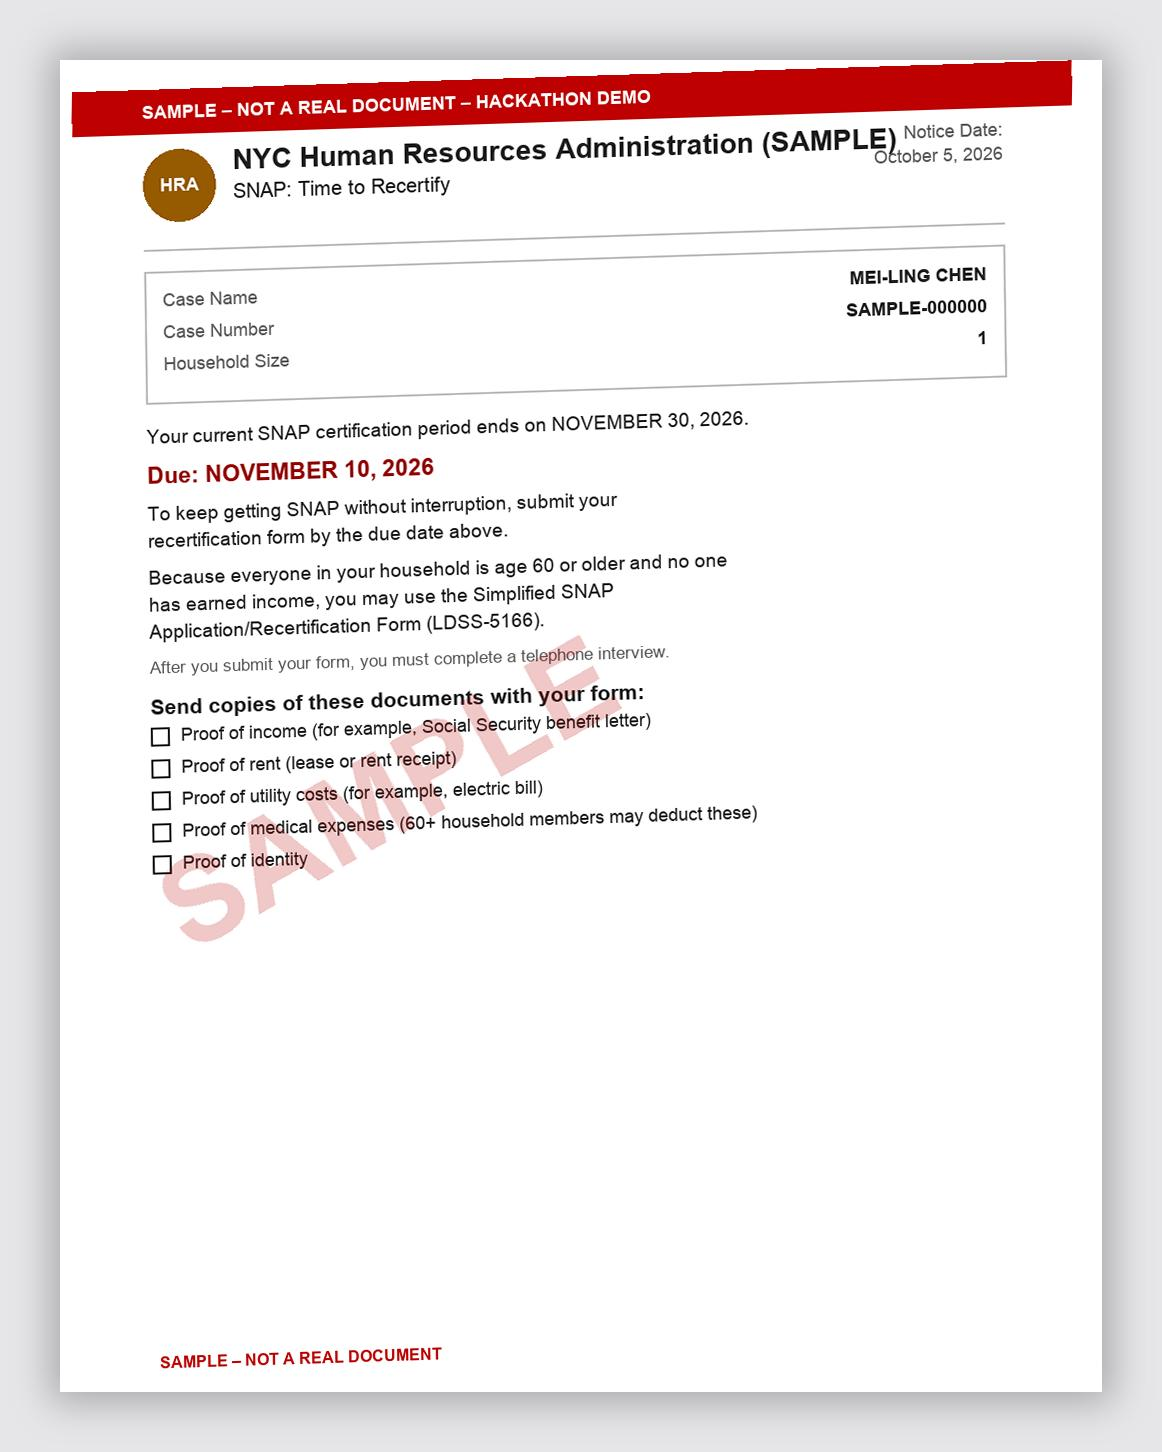
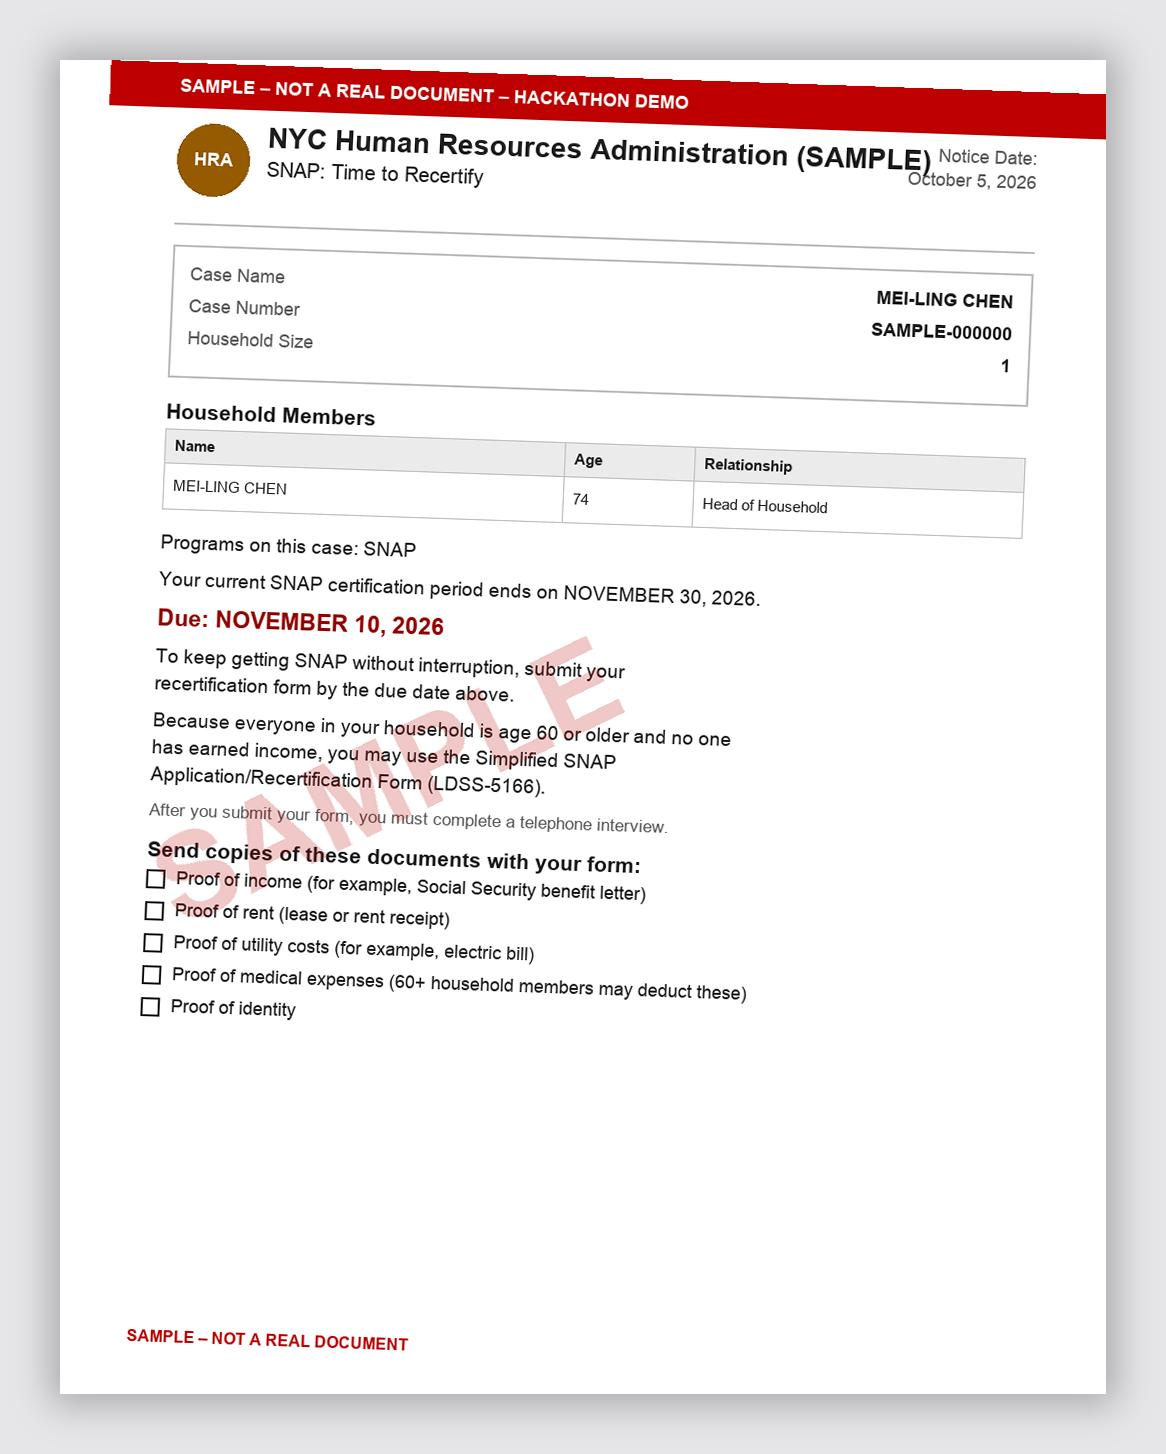
Zero questions after SSA+bank+HRA: document-based inference for married/medicaid/earned-income
User-directed redesign: uploading the demo documents should produce
results with ZERO questions, using only information the real versions
of these documents would plausibly contain.

Fixture content (real-document-plausible additions):
- SSA letter: added "Information About Supplemental Security Income
  Payments: You are not currently receiving SSI" -- SSA benefit
  verification letters do report SSI status alongside retirement
  benefits.
- HRA SNAP notice: added a "Household Members" box listing exactly one
  person (Mei-ling, Head of Household) and a "Programs on this case:
  SNAP" line -- both are standard fields on real NYC HRA
  determination/recertification notices.

New inference rules (app/docs/profile_merge.py), each with provenance
recorded to the source letter:
- Exactly one named household member -> answers "married and living
  with spouse" (= no) without the letter ever stating a marital status
  directly -- you can't live with a spouse in a one-person household.
- "Programs on this case" not listing Medicaid -> answers on_medicaid
  (= no).
- The notice's existing "no one has earned income" sentence (the
  stated eligibility condition for the simplified senior form, already
  in the fixture since Step 1) -> answers earned_income_monthly (= 0)
  without needing a pay stub.
- SSA letter's new SSI section -> answers on_ssi directly.

app/benefits/service.py: extracted a named needed_questions(results)
[…]

Changed region(s): [[0.062, 0.031, 0.9604, 0.7128], [0.0929, 0.8988, 0.3718, 0.9607], [0.5577, 0.6818, 0.6506, 0.7128]]

diff --git a/app/docs/profile_merge.py b/app/docs/profile_merge.py
@@ -58,6 +58,13 @@ def merge_fields_into_profile(
             profile.set_provenance("age", letter_id)
             updated.append("age")
 
+        # The letter states SSI status outright when it has anything to
+        # report about it -- no need to ask.
+        if fields.get("receives_ssi") is not None:
+            profile.on_ssi = fields["receives_ssi"]
+            profile.set_provenance("on_ssi", letter_id)
+            updated.append("on_ssi")
+
     elif letter_type == LetterType.HRA_RENEWAL_NOTICE:
         if fields.get("program") == "SNAP":
             profile.on_snap = True
@@ -67,6 +74,32 @@ def merge_fields_into_profile(
             profile.household_size = fields["household_size"]
             profile.set_provenance("household_size", letter_id)
             updated.append("household_size")
+
+        # Exactly one named household member means she lives alone -- that
+        # answers "married and living with spouse" (= no) without the
+        # notice ever stating a marital status, and without asking.
+        members = fields.get("household_members")
+        if members and len(members) == 1:
+            profile.married = False
+            profile.living_with_spouse = False
+            profile.set_provenance("married", letter_id)
+            updated.append("married")
+
+        # The notice lists which programs this case already covers -- if
+        # Medicaid isn't one of them, that answers "on Medicaid" (= no).
+        programs = fields.get("programs_on_case")
+        if programs is not None:
+            profile.on_medicaid = "medicaid" in {p.lower() for p in programs}
+            profile.set_provenance("on_medicaid", letter_id)
+            updated.append("on_medicaid")
+
+        # The simplified-form eligibility condition some notices state
+        # outright ("no one has earned income") answers
+        # "earned_income_monthly" (= 0) without needing a pay stub.
+        if fields.get("household_has_earned_income") is False and profile.earned_income_monthly is None:
+            profile.earned_income_monthly = 0.0
+            profile.set_provenance("earned_income_monthly", letter_id)
+            updated.append("earned_income_monthly")
 
     elif letter_type == LetterType.BANK_STATEMENT:
         profile.savings = fields["ending_balance"]

diff --git a/app/docs/oci_client.py b/app/docs/oci_client.py
@@ -52,7 +52,9 @@ _FIXTURE_TEXT_BY_STEM = {
         "Medicare Part B premium deduction: $202.90.\n"
         "Your net payment is $1,497.00.\n"
         "Date of birth: 1952-03-14.\n"
-        "This change is effective 2025-12-01."
+        "This change is effective 2025-12-01.\n"
+        "Information About Supplemental Security Income Payments: "
+        "You are not currently receiving Supplemental Security Income (SSI)."
     ),
     "02_bank_statement": (
         "Sample Community Bank Monthly Statement\n"
@@ -68,9 +70,13 @@ _FIXTURE_TEXT_BY_STEM = {
         "SNAP Recertification Notice\n"
         "MEI-LING CHEN\n"
         "Household size: 1\n"
+        "Household Members: MEI-LING CHEN, age 74, Head of Household\n"
+        "Programs on this case: SNAP\n"
         "Your SNAP case must be recertified by 2026-11-10.\n"
         "Certification ends 2026-11-30.\n"
-        "Simplified form LDSS-5166 available.\n"
+        "Because everyone in your household is age 60 or older and no one "
+        "has earned income, you may use the Simplified SNAP Application/"
+        "Recertification Form (LDSS-5166).\n"
         "Please submit: proof of income, proof of rent, proof of utilities, "
         "proof of medical expenses, proof of identity."
     ),
@@ -103,6 +109,7 @@ _FIXTURE_EXTRACT_BY_STEM = {
         "recipient_name": "MEI-LING CHEN",
         "recipient_address": "123 SAMPLE AVE APT 4B, FLUSHING NY 11354",
         "date_of_birth": "1952-03-14",
+        "receives_ssi": False,
     },
     "02_bank_statement": {
         "ending_balance": 40000.00,
@@ -117,6 +124,9 @@ _FIXTURE_EXTRACT_BY_STEM = {
         "notice_date": "2026-10-05",
         "certification_end_date": "2026-11-30",
         "household_size": 1,
+        "household_members": [{"name": "MEI-LING CHEN", "age": 74, "relationship": "head_of_household"}],
+        "programs_on_case": ["SNAP"],
+        "household_has_earned_income": False,
         "simplified_form_eligible": True,
         "simplified_form_id": "LDSS-5166",
         "interview_required": "telephone",

diff --git a/app/docs/schemas.py b/app/docs/schemas.py
@@ -38,6 +38,8 @@ class SsaBenefitLetterFields(BaseModel):
     # When present, lets the app answer the "age" question itself instead
     # of asking -- see app.docs.profile_merge.
     date_of_birth: date | None = None
+    # When present, lets the app answer the "on_ssi" fact without asking.
+    receives_ssi: bool | None = None
 
 
 class RecurringDeposit(BaseModel):
@@ -57,6 +59,12 @@ class BankStatementFields(BaseModel):
     medical_expenses: list[RecurringDeposit] = Field(default_factory=list)
 
 
+class HouseholdMember(BaseModel):
+    name: str
+    age: int | None = None
+    relationship: str = "head_of_household"
+
+
 class HraRenewalNoticeFields(BaseModel):
     program: str
     deadline: date
@@ -66,6 +74,17 @@ class HraRenewalNoticeFields(BaseModel):
     # When present, lets the app answer the "household_size" question
     # itself instead of asking -- see app.docs.profile_merge.
     household_size: int | None = None
+    # A named household-members list, when the notice lists one: if it has
+    # exactly one person, that answers "married and living with spouse"
+    # (= no) without ever asking or stating a marital status directly.
+    household_members: list[HouseholdMember] | None = None
+    # Which programs this case is already open for -- if listed and
+    # Medicaid isn't among them, that answers "on Medicaid" (= no).
+    programs_on_case: list[str] | None = None
+    # Some notices state this outright (it's the eligibility condition for
+    # the simplified senior/disabled form) -- when present, answers
+    # "earned_income_monthly" (= 0) without asking or needing a pay stub.
+    household_has_earned_income: bool | None = None
     simplified_form_eligible: bool = False
     simplified_form_id: str | None = None
     interview_required: str | None = None

diff --git a/scripts/make_fixtures.py b/scripts/make_fixtures.py
@@ -289,6 +289,8 @@ def make_fixture_1() -> None:
             "beginning March 2017.",
         ]
     )
+    l.section_header("Information About Supplemental Security Income Payments")
+    l.body(["You are not currently receiving Supplemental Security Income (SSI)."])
     l.body(["Social Security Number: XXX-XX-0000 (SAMPLE)"], font_size=17, color=MUTED)
     l.finish(name)
 
@@ -304,6 +306,7 @@ def make_fixture_1() -> None:
             "date_of_birth": "1952-03-14",
             "has_medicare_part_a": True,
             "has_medicare_part_b": True,
+            "receives_ssi": False,
             "recipient_name": "MEI-LING CHEN",
             "recipient_address": "123 SAMPLE AVE APT 4B, FLUSHING NY 11354",
         },
@@ -389,6 +392,13 @@ def make_fixture_3() -> None:
             ("Household Size", "1"),
         ]
     )
+    l.section_header("Household Members")
+    l.table(
+        ["Name", "Age", "Relationship"],
+        [400, 130, 330],
+        [["MEI-LING CHEN", "74", "Head of Household"]],
+    )
+    l.body(["Programs on this case: SNAP"])
     l.body(["Your current SNAP certification period ends on NOVEMBER 30, 2026."])
     l.draw.text((MARGIN, l.y), "Due: NOVEMBER 10, 2026", font=_font(23, bold=True), fill=(150, 0, 0))
     l.y += 40
@@ -427,6 +437,9 @@ def make_fixture_3() -> None:
             "deadline": "2026-11-10",
             "certification_end_date": "2026-11-30",
             "household_size": 1,
+            "household_members": [{"name": "MEI-LING CHEN", "age": 74, "relationship": "head_of_household"}],
+            "programs_on_case": ["SNAP"],
+            "household_has_earned_income": False,
             "simplified_form_eligible": True,
             "simplified_form_id": "LDSS-5166",
             "interview_required": "telephone",

diff --git a/app/benefits/service.py b/app/benefits/service.py
@@ -69,6 +69,20 @@ def profile_record_to_profile(record: ProfileRecord) -> Profile:
     )
 
 
+# A result only lists a fact in missing_fields when the rules engine
+# couldn't decide without it -- i.e. answering it would change that
+# program's status from missing_info to a real decision. So the set of
+# facts across all results already satisfies "missing AND would change a
+# result" by construction; this just dedupes, orders, and caps it so the
+# UI never has to ask more than 2 things at once.
+MAX_QUESTIONS = 2
+
+
+def needed_questions(results: list) -> list[str]:
+    wanted = {f for r in results for f in r.missing_fields}
+    return [f for f in PROFILE_FACTS if f in wanted][:MAX_QUESTIONS]
+
+
 def uses_sample_data(session: Session, record: ProfileRecord) -> bool:
     """True if any value behind the results came from a sample letter.
     Letters saved before is_sample existed were all MOCK_MODE samples
@@ -104,11 +118,10 @@ def get_benefits(session: Session, user_id: str, language: str) -> BenefitsResul
     with trace.step("Explained each result", f"OCI Generative AI{mock_suffix()}"):
         explained = explain_results(results, profile, language)
 
-    wanted = {f for r in results for f in r.missing_fields}
     return BenefitsResult(
         results=explained,
         trace=trace_to_out(trace),
-        questions=[f for f in PROFILE_FACTS if f in wanted],
+        questions=needed_questions(results),
         uses_sample_data=uses_sample_data(session, record),
     )
 

diff --git a/tests/test_benefits.py b/tests/test_benefits.py
@@ -41,8 +41,9 @@ def test_new_user_gets_more_information_needed_not_a_guess():
     # Nothing known yet: unknown income is not $0, unknown Medicare is not "no".
     results, body = _by_program("nobody")
     assert {r["status"] for r in results.values()} == {"missing_info"}
-    assert body["questions"][0] == "has_medicare"
-    assert "earned_income_monthly" in body["questions"]
+    # Many facts are genuinely unknown here, but the UI never asks more
+    # than MAX_QUESTIONS (2) at once -- see app.benefits.service.needed_questions.
+    assert body["questions"] == ["has_medicare", "ss_gross_monthly"]
     assert all(r["monthly_value"] == 0 for r in results.values())
 
 
@@ -147,3 +148,15 @@ def test_unknown_savings_are_not_shown_as_zero():
     _answer("savings", "2000")
     results, _ = _by_program()
     assert results["SNAP"]["numbers_used"]["savings"] == 2000
+
+
+def test_questions_are_never_more_than_two_even_for_a_blank_profile():
+    """A brand new user with zero letters has 5 genuinely unknown facts
+    (has_medicare, ss_gross_monthly, earned_income_monthly, married,
+    household_size) -- the UI should never be asked to show more than 2
+    at once. See app.benefits.service.MAX_QUESTIONS."""
+    from app.benefits.service import MAX_QUESTIONS
+
+    _, body = _by_program("blank_profile_user")
+    assert len(body["questions"]) <= MAX_QUESTIONS
+    assert body["questions"] == ["has_medicare", "ss_gross_monthly"]

diff --git a/tests/test_persona_flow.py b/tests/test_persona_flow.py
@@ -65,6 +65,28 @@ def test_find_qmb_and_extra_help_from_ssa_and_bank_letters():
     assert any("存款" in line for line in results["QMB"]["myth_busting_lines"])
 
 
+def test_find_zero_questions_after_ssa_bank_and_hra_letters():
+    """The core FIND demo flow: upload the SSA letter, bank statement, and
+    HRA notice -- no manual answers at all -- and needed_questions() is
+    empty. The HRA notice's single-person household_members list answers
+    "married" (lives alone), its programs_on_case answers "on Medicaid"
+    (not listed), and its "no one has earned income" statement answers
+    earned_income_monthly -- all without asking."""
+    headers = auth_headers("meiling_zero_q")
+    _upload("01_ssa_benefit_letter.png", headers)
+    _upload("02_bank_statement.png", headers)
+    _upload("03_hra_snap_recert_notice.png", headers)
+
+    response = client.get("/benefits", params={"language": "zh"}, headers=headers)
+    body = response.json()
+    assert body["questions"] == []
+
+    results = {r["program"]: r for r in body["results"]}
+    assert results["QMB"]["status"] == "likely"
+    assert results["Extra Help"]["status"] == "likely"
+    assert results["SNAP"]["status"] == "already_enrolled"
+
+
 def test_find_age_is_read_from_the_ssa_letter_not_asked():
     headers = auth_headers("meiling_age")
     body = _upload("01_ssa_benefit_letter.png", headers)
